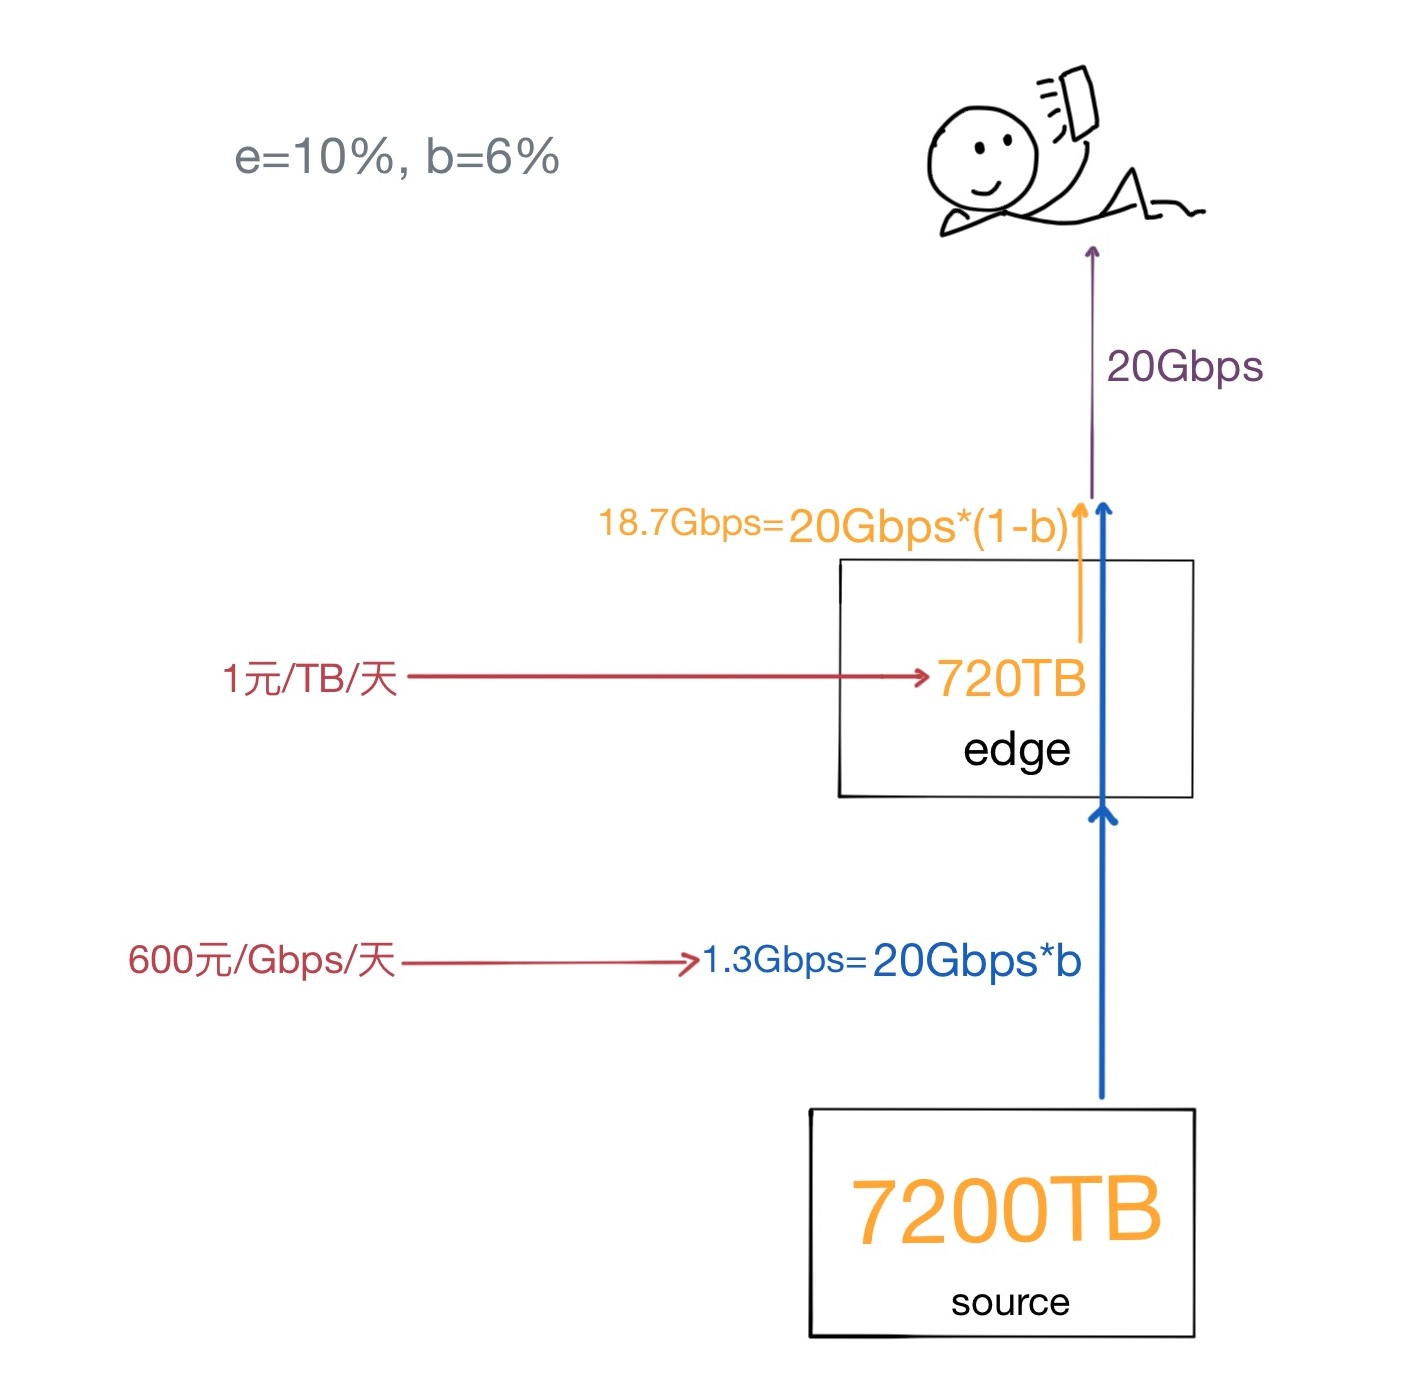
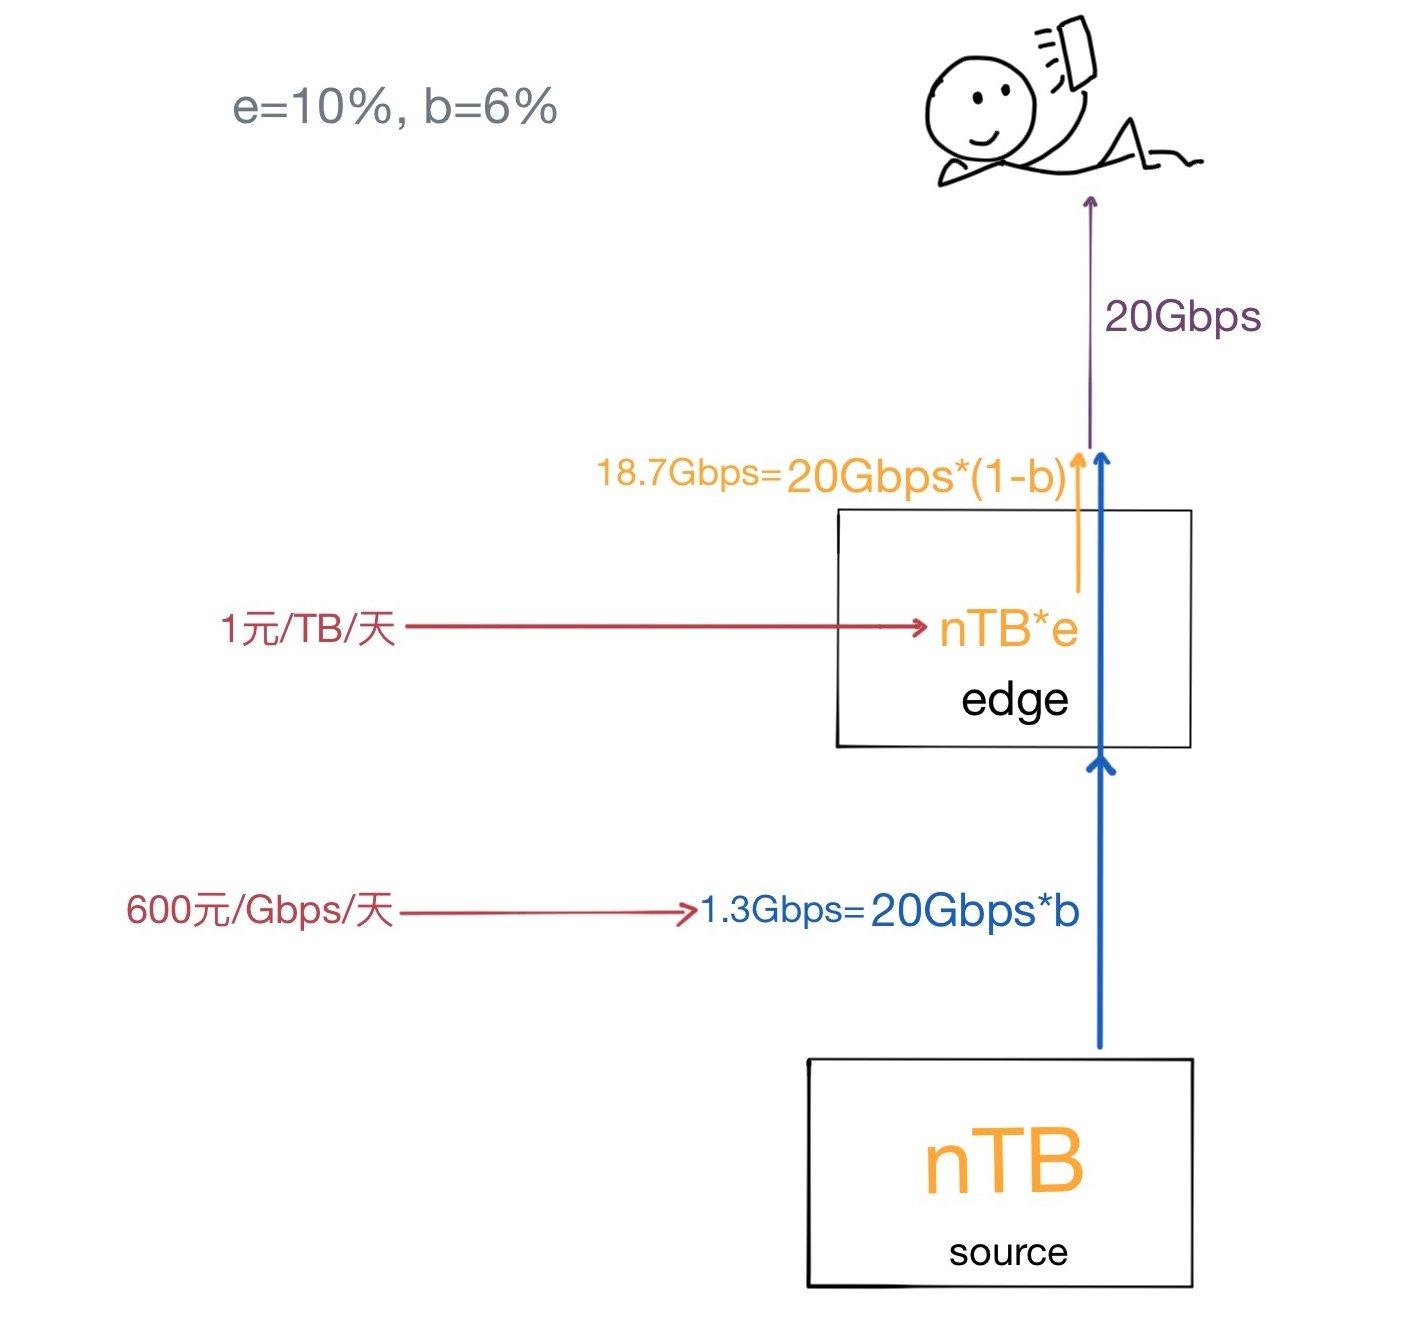
cdn: fix table: use another data set

Changed region(s): [[0.0937, 0.0, 0.9056, 0.988], [0.1561, 0.0617, 0.406, 0.1235]]

diff --git a/_posts/2019-11-21-cdn.md b/_posts/2019-11-21-cdn.md
@@ -96,7 +96,7 @@ CDN ([Content delivery network](https://en.wikipedia.org/wiki/Content_delivery_n
 一个假想的业务场景和CDN服务配置如下:
 
 - 每个CDN边缘机房对外提供的日常下载总带宽: `20Gbps`，
-- 源站中所有文件的**总量**`n`: `7200TB`，
+- 源站中所有文件的**总量**`n`，
 - 边缘机房的存储容量占源站文件总量的比值: `e`(edge)，例如(图1)中，`e=10%`，每个边缘机房能存储1/10的内容。
 - 回源率`b`(backsource) 是边缘机房消耗的回源带宽跟这个边缘机房下载带宽的比值，例如(图1)中，`e=10%`时，`b=6%`。
 
@@ -154,7 +154,7 @@ f(k) =
 k^{0.708331}
 $$
 
-其中`s`的值 `s=0.708331`是我们后面计算需要用到的。
+其中`s`的值是我们后面计算需要用到的。
 
 > zipf中的`c`参数在我们的分析中没有被使用到，
 > 因为`c`只决定了文件被访问频率的分布的绝对值，而不影响分布的相对值。
@@ -213,7 +213,7 @@ $$
 
 根据以上设定，我们可以得到一个边缘机房中:
 
-- 存储成本是: `7200TB * e * 1元/TB/天`
+- 存储成本是: `n * e * 1元/TB/天`
 - 回源带宽成本: `20Gbps * b * 600元/Gbps/天`
 
 
@@ -226,8 +226,16 @@ $$
 1. 根据回源率b的公式计算对应的回源率`b`((图1)蓝色部分积分/蓝色黄色部分积分)，
 1. 再结合单位成本，得出每个`e`对应的总成本，
 
+这里我们选择一个更大的样本,
+其中`s=1.10138726235`, `n=8,000,000`,
 
-最后我们得到如下一个边缘容量`e`决定回源率`b`和成本的表格:
+$$
+f(k) =
+c/
+k^{1.10138726235}
+$$
+
+得到如下一个边缘容量`e`决定回源率`b`和成本的表格:
 
 | e:边缘存储容量占比%  | b:回源率% | 存储成本 | 回源带宽成本 | 总成本     |
 | --:                  | --:       | --:      | --:          | --:        |
